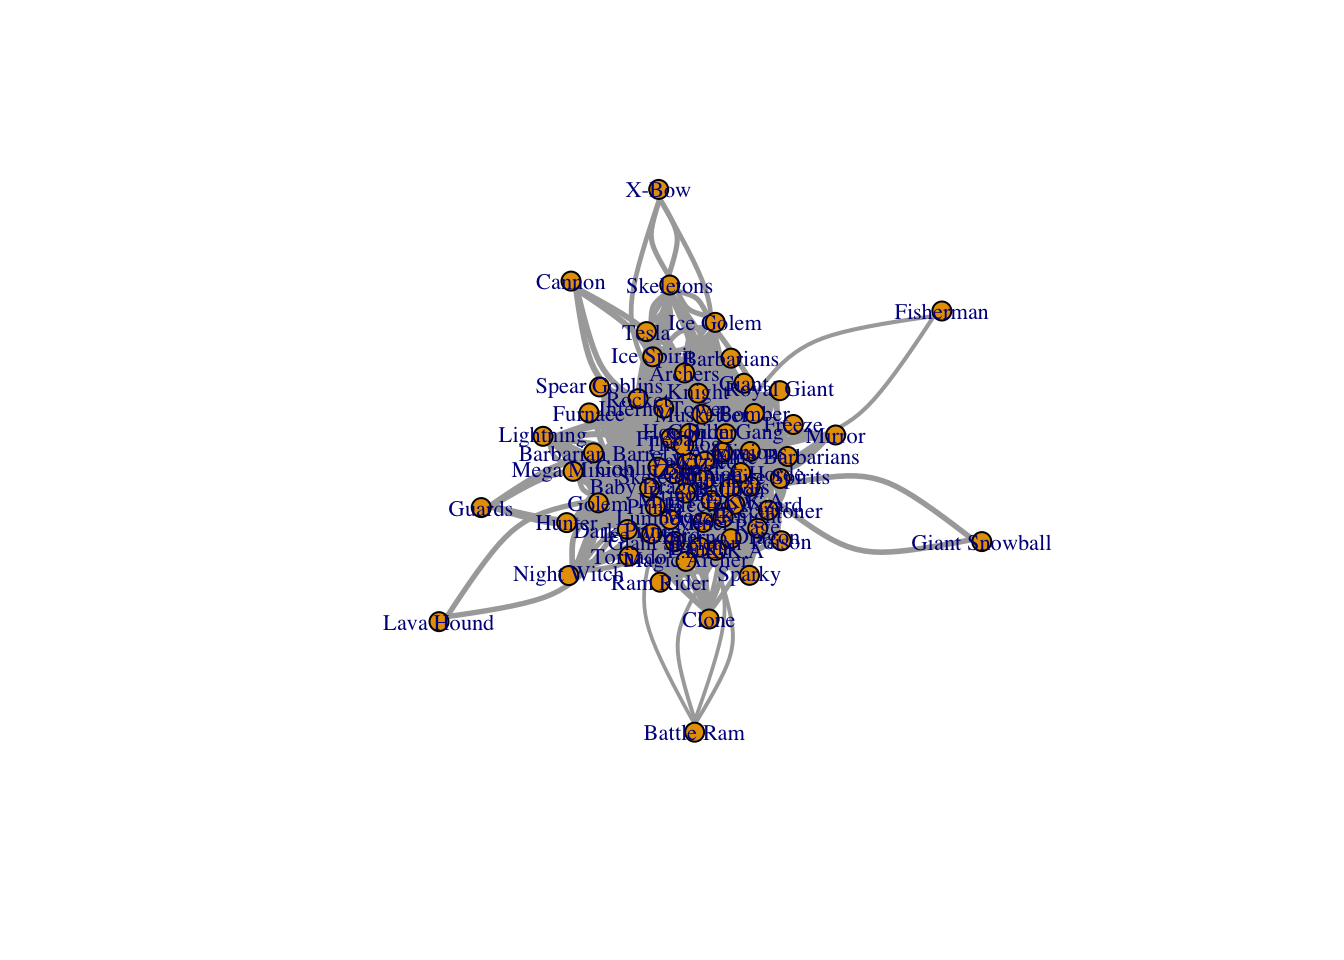
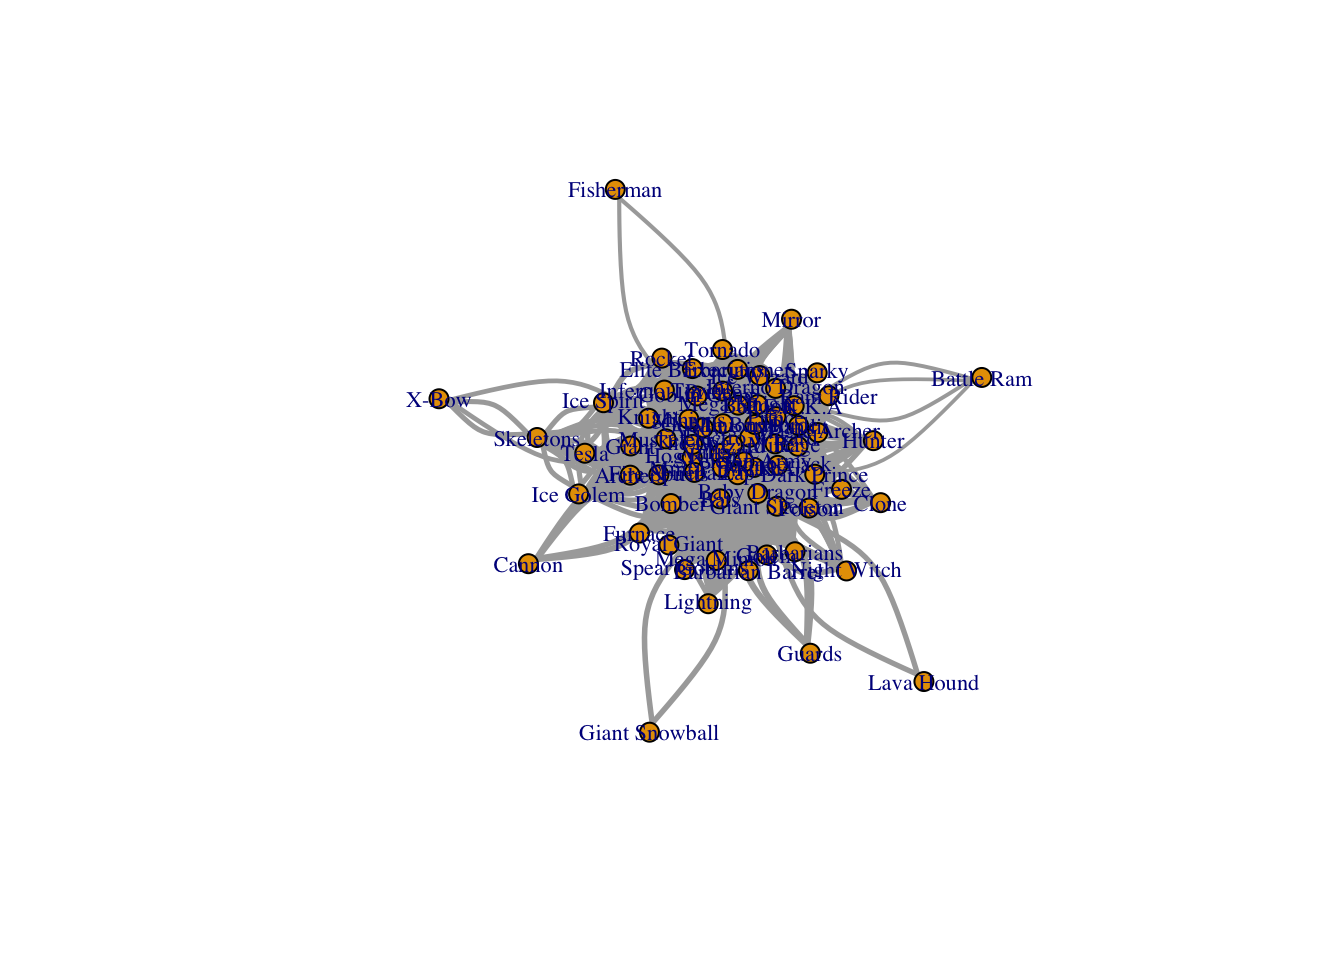
update

Changed region(s): [[0.2812, 0.1875, 0.7812, 0.7812]]

diff --git a/kevineuyoque/clash_royale/ClashRoyaleDraft.html b/kevineuyoque/clash_royale/ClashRoyaleDraft.html
@@ -183,13 +183,10 @@ Activity Length
 </div>
 <div id="callout-2" class="callout-2-contents callout-collapse collapse">
 <div class="callout-body-container callout-body">
-<p>This module could be used as a short in-class lab, a longer out-of-class assignment, or part of a larger unit on network analysis and data visualization.</p>
+<p>This module could be used as a short in-class lab that lasts about 60 minutes or part of a larger unit on network analysis and data visualization.</p>
 </div>
 </div>
 </div>
-</section>
-<section id="a-class-period" class="level1">
-<h1>a class period</h1>
 <div class="callout callout-style-simple callout-note no-icon callout-titled" title="Methods">
 <div class="callout-header d-flex align-content-center" data-bs-toggle="collapse" data-bs-target=".callout-3-contents" aria-controls="callout-3" aria-expanded="false" aria-label="Toggle callout">
 <div class="callout-icon-container">
@@ -216,8 +213,6 @@ Methods
 </div>
 </div>
 </section>
-<section id="add-a-hyperlink-that-sends-the-reader-to-the-page-for-each-package" class="level1">
-<h1>add a hyperlink that sends the reader to the page for each package</h1>
 <section id="data" class="level2">
 <h2 class="anchored" data-anchor-id="data">Data</h2>
 <p>The main dataset used in this module is cr_season3_5000decks.csv, which contains deck-level Clash Royale data from Season 3. Each row corresponds to a card appearing in a specific deck, along with whether that deck won.</p>
@@ -265,9 +260,6 @@ Methods
 </ul>
 </details>
 </section>
-</section>
-<section id="insert-into-module-instead" class="level1">
-<h1>insert into module instead</h1>
 <section id="goal-of-this-module" class="level2">
 <h2 class="anchored" data-anchor-id="goal-of-this-module">Goal of this module</h2>
 <p>In this tutorial, we will treat Clash Royale cards as nodes in a network.</p>
@@ -379,7 +371,6 @@ lgl (2): evolution, hero_upgrade
 </div>
 </div>
 </section>
-</section>
 <section id="network-representation" class="level1">
 <h1>Network Representation</h1>
 <p>To represent Clash Royale synergy as a network, we will model the data as a graph.</p>
@@ -391,9 +382,9 @@ lgl (2): evolution, hero_upgrade
 <span id="cb14-5"><a href="#cb14-5" aria-hidden="true" tabindex="-1"></a></span>
 <span id="cb14-6"><a href="#cb14-6" aria-hidden="true" tabindex="-1"></a>network</span></code><button title="Copy to Clipboard" class="code-copy-button"><i class="bi"></i></button></pre></div>
 <div class="cell-output cell-output-stdout">
-<pre><code>IGRAPH 9583a89 UN-- 69 1572 -- 
+<pre><code>IGRAPH a367b1d UN-- 69 1572 -- 
 + attr: name (v/c), decks (e/n), wins (e/n), winrate (e/n)
-+ edges from 9583a89 (vertex names):
++ edges from a367b1d (vertex names):
  [1] Hog Rider     --Zap Valkyrie      --Zap Giant Skeleton--Zap
  [4] Baby Dragon   --Zap Mini P.E.K.K.A--Zap Witch         --Zap
  [7] Musketeer     --Zap Balloon       --Zap Arrows        --Zap
@@ -452,6 +443,27 @@ lgl (2): evolution, hero_upgrade
 </ul>
 <p>There are over 37,235,730,424,788 possible unique deck combinations</p>
 <p>(Pick 16 cards from the dataset for which we will use, go back to adjacency matrix, only 16 nodes and only have edges for nodes with higher than 50% win rate)</p>
+</section>
+<section id="centrality-of-cards" class="level2">
+<h2 class="anchored" data-anchor-id="centrality-of-cards">Centrality of Cards</h2>
+<p>Up to this point, we have visualized relationships between cards. However, we can go further by measuring how <em>important</em> each card is within the network.</p>
+<p>This is done using <strong>centrality</strong>, which measures how connected or influential a node is in a network.</p>
+<section id="degree-centrality" class="level3">
+<h3 class="anchored" data-anchor-id="degree-centrality">Degree Centrality</h3>
+<p>The simplest measure is <strong>degree centrality</strong>, which counts how many connections each card has.</p>
+<ul>
+<li>High degree → card appears with many other cards<br>
+</li>
+<li>Low degree → card appears with fewer pairings</li>
+</ul>
+<p>Cards with high degree centrality are often:</p>
+<ul>
+<li>flexible across many strategies<br>
+</li>
+<li>commonly used in decks<br>
+</li>
+<li>important to the overall meta</li>
+</ul>
 <div class="cell">
 <div class="sourceCode cell-code" id="cb16"><pre class="sourceCode r code-with-copy"><code class="sourceCode r"><span id="cb16-1"><a href="#cb16-1" aria-hidden="true" tabindex="-1"></a>used_cards <span class="ot">&lt;-</span> <span class="fu">c</span>(<span class="st">"Hog Rider"</span>, <span class="st">"Zap"</span>, <span class="st">"Valkyrie"</span>, <span class="st">"Giant Skeleton"</span>, <span class="st">"Baby Dragon"</span>,</span>
 <span id="cb16-2"><a href="#cb16-2" aria-hidden="true" tabindex="-1"></a>                <span class="st">"Mini P.E.K.K.A"</span>, <span class="st">"Witch"</span>, <span class="st">"Musketeer"</span>, <span class="st">"Balloon"</span>, <span class="st">"Arrows"</span>, <span class="st">"Skeleton Army"</span>, <span class="st">"Electro Wizard"</span>, <span class="st">"Mega Knight"</span>, <span class="st">"Fireball"</span>, <span class="st">"Executioner"</span>, <span class="st">"P.E.K.K.A"</span>)</span></code><button title="Copy to Clipboard" class="code-copy-button"><i class="bi"></i></button></pre></div>
@@ -459,18 +471,20 @@ lgl (2): evolution, hero_upgrade
 <div class="cell">
 <div class="sourceCode cell-code" id="cb17"><pre class="sourceCode r code-with-copy"><code class="sourceCode r"><span id="cb17-1"><a href="#cb17-1" aria-hidden="true" tabindex="-1"></a>pair_data_16 <span class="ot">&lt;-</span> pair_data <span class="sc">|&gt;</span></span>
 <span id="cb17-2"><a href="#cb17-2" aria-hidden="true" tabindex="-1"></a>  <span class="fu">filter</span>(card1 <span class="sc">%in%</span> used_cards, card2 <span class="sc">%in%</span> used_cards) <span class="sc">|&gt;</span></span>
-<span id="cb17-3"><a href="#cb17-3" aria-hidden="true" tabindex="-1"></a>  <span class="fu">mutate</span>(<span class="at">synergy =</span> <span class="fu">ifelse</span>(winrate <span class="sc">&gt;</span> <span class="fl">0.50</span>, <span class="dv">1</span>, <span class="dv">0</span>)) <span class="sc">|&gt;</span></span>
-<span id="cb17-4"><a href="#cb17-4" aria-hidden="true" tabindex="-1"></a>  <span class="fu">select</span>(card1, card2, synergy)</span>
-<span id="cb17-5"><a href="#cb17-5" aria-hidden="true" tabindex="-1"></a></span>
-<span id="cb17-6"><a href="#cb17-6" aria-hidden="true" tabindex="-1"></a></span>
+<span id="cb17-3"><a href="#cb17-3" aria-hidden="true" tabindex="-1"></a>  <span class="fu">mutate</span>(<span class="at">synergy =</span> <span class="fu">ifelse</span>(winrate <span class="sc">&gt;</span> <span class="fl">0.57</span>, <span class="dv">1</span>, <span class="dv">0</span>)) <span class="sc">|&gt;</span></span>
+<span id="cb17-4"><a href="#cb17-4" aria-hidden="true" tabindex="-1"></a>  <span class="co">#filter(synergy == 1) |&gt;</span></span>
+<span id="cb17-5"><a href="#cb17-5" aria-hidden="true" tabindex="-1"></a>  <span class="fu">select</span>(card1, card2, synergy) </span>
+<span id="cb17-6"><a href="#cb17-6" aria-hidden="true" tabindex="-1"></a>  </span>
 <span id="cb17-7"><a href="#cb17-7" aria-hidden="true" tabindex="-1"></a></span>
-<span id="cb17-8"><a href="#cb17-8" aria-hidden="true" tabindex="-1"></a>network_16 <span class="ot">&lt;-</span> <span class="fu">graph_from_data_frame</span>(pair_data_16, <span class="at">directed =</span> <span class="cn">FALSE</span>)</span>
+<span id="cb17-8"><a href="#cb17-8" aria-hidden="true" tabindex="-1"></a></span>
 <span id="cb17-9"><a href="#cb17-9" aria-hidden="true" tabindex="-1"></a></span>
-<span id="cb17-10"><a href="#cb17-10" aria-hidden="true" tabindex="-1"></a><span class="fu">plot</span>(network_16,</span>
-<span id="cb17-11"><a href="#cb17-11" aria-hidden="true" tabindex="-1"></a>     <span class="at">layout =</span> layout_with_fr,</span>
-<span id="cb17-12"><a href="#cb17-12" aria-hidden="true" tabindex="-1"></a>     <span class="at">vertex.size =</span> <span class="dv">8</span>,</span>
-<span id="cb17-13"><a href="#cb17-13" aria-hidden="true" tabindex="-1"></a>     <span class="at">vertex.label.cex =</span> .<span class="dv">8</span>,</span>
-<span id="cb17-14"><a href="#cb17-14" aria-hidden="true" tabindex="-1"></a>     <span class="at">edge.width =</span> <span class="fu">E</span>(network_16)<span class="sc">$</span>synergy <span class="sc">*</span> <span class="dv">4</span>)</span></code><button title="Copy to Clipboard" class="code-copy-button"><i class="bi"></i></button></pre></div>
+<span id="cb17-10"><a href="#cb17-10" aria-hidden="true" tabindex="-1"></a>network_16 <span class="ot">&lt;-</span> <span class="fu">graph_from_data_frame</span>(pair_data_16, <span class="at">directed =</span> <span class="cn">FALSE</span>)</span>
+<span id="cb17-11"><a href="#cb17-11" aria-hidden="true" tabindex="-1"></a></span>
+<span id="cb17-12"><a href="#cb17-12" aria-hidden="true" tabindex="-1"></a><span class="fu">plot</span>(network_16,</span>
+<span id="cb17-13"><a href="#cb17-13" aria-hidden="true" tabindex="-1"></a>     <span class="at">layout =</span> layout_with_fr,</span>
+<span id="cb17-14"><a href="#cb17-14" aria-hidden="true" tabindex="-1"></a>     <span class="at">vertex.size =</span> <span class="dv">8</span>,</span>
+<span id="cb17-15"><a href="#cb17-15" aria-hidden="true" tabindex="-1"></a>     <span class="at">vertex.label.cex =</span> .<span class="dv">8</span>,</span>
+<span id="cb17-16"><a href="#cb17-16" aria-hidden="true" tabindex="-1"></a>     <span class="at">edge.width =</span> <span class="fu">E</span>(network_16)<span class="sc">$</span>synergy)</span></code><button title="Copy to Clipboard" class="code-copy-button"><i class="bi"></i></button></pre></div>
 <div class="cell-output-display">
 <div>
 <figure class="figure">
@@ -481,52 +495,37 @@ lgl (2): evolution, hero_upgrade
 </div>
 </section>
 </section>
-<section id="below-are-test-runs-using-other-methods" class="level1">
-<h1>below are test runs using other methods</h1>
+<section id="try-it-yourself" class="level2">
+<h2 class="anchored" data-anchor-id="try-it-yourself">Try it yourself</h2>
 <div class="cell">
-<div class="sourceCode cell-code" id="cb18"><pre class="sourceCode r code-with-copy"><code class="sourceCode r"><span id="cb18-1"><a href="#cb18-1" aria-hidden="true" tabindex="-1"></a><span class="co"># Add edge weights</span></span>
-<span id="cb18-2"><a href="#cb18-2" aria-hidden="true" tabindex="-1"></a><span class="fu">E</span>(network)<span class="sc">$</span>weight <span class="ot">&lt;-</span> pair_data<span class="sc">$</span>winrate</span>
-<span id="cb18-3"><a href="#cb18-3" aria-hidden="true" tabindex="-1"></a></span>
-<span id="cb18-4"><a href="#cb18-4" aria-hidden="true" tabindex="-1"></a><span class="co"># plot a network</span></span>
-<span id="cb18-5"><a href="#cb18-5" aria-hidden="true" tabindex="-1"></a><span class="fu">plot</span>(network,</span>
-<span id="cb18-6"><a href="#cb18-6" aria-hidden="true" tabindex="-1"></a>     <span class="at">layout =</span> layout_with_fr,</span>
-<span id="cb18-7"><a href="#cb18-7" aria-hidden="true" tabindex="-1"></a>     <span class="at">vertex.size =</span> <span class="dv">7</span>,</span>
-<span id="cb18-8"><a href="#cb18-8" aria-hidden="true" tabindex="-1"></a>     <span class="at">vertex.label.cex =</span> .<span class="dv">7</span>,</span>
-<span id="cb18-9"><a href="#cb18-9" aria-hidden="true" tabindex="-1"></a>     <span class="at">edge.width =</span> <span class="fu">E</span>(network)<span class="sc">$</span>weight <span class="sc">*</span> <span class="dv">5</span>)</span></code><button title="Copy to Clipboard" class="code-copy-button"><i class="bi"></i></button></pre></div>
-<div class="cell-output-display">
-<div>
-<figure class="figure">
-<p><img src="ClashRoyaleDraft_files/figure-html/unnamed-chunk-10-1.png" class="img-fluid figure-img" width="672"></p>
-</figure>
-</div>
-</div>
-</div>
-<div class="cell">
-<div class="sourceCode cell-code" id="cb19"><pre class="sourceCode r code-with-copy"><code class="sourceCode r"><span id="cb19-1"><a href="#cb19-1" aria-hidden="true" tabindex="-1"></a><span class="co"># find most connected cards</span></span>
-<span id="cb19-2"><a href="#cb19-2" aria-hidden="true" tabindex="-1"></a>card_degree <span class="ot">&lt;-</span> <span class="fu">degree</span>(network)</span>
-<span id="cb19-3"><a href="#cb19-3" aria-hidden="true" tabindex="-1"></a><span class="fu">sort</span>(card_degree, <span class="at">decreasing =</span> <span class="cn">TRUE</span>)[<span class="dv">1</span><span class="sc">:</span><span class="dv">10</span>]</span></code><button title="Copy to Clipboard" class="code-copy-button"><i class="bi"></i></button></pre></div>
+<div class="sourceCode cell-code" id="cb18"><pre class="sourceCode r code-with-copy"><code class="sourceCode r"><span id="cb18-1"><a href="#cb18-1" aria-hidden="true" tabindex="-1"></a>all_cards <span class="ot">&lt;-</span> <span class="fu">unique</span>(cr_season3_5000decks<span class="sc">$</span>card)</span>
+<span id="cb18-2"><a href="#cb18-2" aria-hidden="true" tabindex="-1"></a></span>
+<span id="cb18-3"><a href="#cb18-3" aria-hidden="true" tabindex="-1"></a>random_16 <span class="ot">&lt;-</span> <span class="fu">sample</span>(all_cards, <span class="dv">16</span>)</span>
+<span id="cb18-4"><a href="#cb18-4" aria-hidden="true" tabindex="-1"></a></span>
+<span id="cb18-5"><a href="#cb18-5" aria-hidden="true" tabindex="-1"></a>random_16</span></code><button title="Copy to Clipboard" class="code-copy-button"><i class="bi"></i></button></pre></div>
 <div class="cell-output cell-output-stdout">
-<pre><code>           Zap         Wizard  Skeleton Army    Baby Dragon       Valkyrie 
-           118            116            114            108            106 
-       The Log       Fireball          Witch      Hog Rider Electro Wizard 
-           106            104            102             98             78 </code></pre>
+<pre><code> [1] "Three Musketeers" "Lightning"        "Royal Giant"      "Dart Goblin"     
+ [5] "Bomb Tower"       "The Log"          "Hunter"           "Skeleton Barrel" 
+ [9] "Clone"            "Royal Recruits"   "Ice Spirit"       "Tombstone"       
+[13] "Freeze"           "Mega Knight"      "Giant"            "Ice Golem"       </code></pre>
 </div>
-<div class="sourceCode cell-code" id="cb21"><pre class="sourceCode r code-with-copy"><code class="sourceCode r"><span id="cb21-1"><a href="#cb21-1" aria-hidden="true" tabindex="-1"></a><span class="co"># Filtered more decks since network too dense</span></span>
-<span id="cb21-2"><a href="#cb21-2" aria-hidden="true" tabindex="-1"></a><span class="co"># show only strongest edges</span></span>
-<span id="cb21-3"><a href="#cb21-3" aria-hidden="true" tabindex="-1"></a>pair_data_small <span class="ot">&lt;-</span> pair_data <span class="sc">|&gt;</span></span>
-<span id="cb21-4"><a href="#cb21-4" aria-hidden="true" tabindex="-1"></a>  <span class="fu">filter</span>(decks <span class="sc">&gt;</span> <span class="dv">290</span>, winrate <span class="sc">&gt;</span> <span class="fl">0.50</span>)</span>
-<span id="cb21-5"><a href="#cb21-5" aria-hidden="true" tabindex="-1"></a></span>
-<span id="cb21-6"><a href="#cb21-6" aria-hidden="true" tabindex="-1"></a>network_small <span class="ot">&lt;-</span> <span class="fu">graph_from_data_frame</span>(pair_data_small, <span class="at">directed =</span> <span class="cn">FALSE</span>)</span>
-<span id="cb21-7"><a href="#cb21-7" aria-hidden="true" tabindex="-1"></a></span>
-<span id="cb21-8"><a href="#cb21-8" aria-hidden="true" tabindex="-1"></a><span class="co"># gives layout more time to spread out</span></span>
-<span id="cb21-9"><a href="#cb21-9" aria-hidden="true" tabindex="-1"></a>lay <span class="ot">&lt;-</span> <span class="fu">layout_with_fr</span>(network_small, <span class="at">niter =</span> <span class="dv">5000</span>)</span>
-<span id="cb21-10"><a href="#cb21-10" aria-hidden="true" tabindex="-1"></a></span>
-<span id="cb21-11"><a href="#cb21-11" aria-hidden="true" tabindex="-1"></a><span class="co"># plot</span></span>
-<span id="cb21-12"><a href="#cb21-12" aria-hidden="true" tabindex="-1"></a><span class="fu">plot</span>(network_small,</span>
-<span id="cb21-13"><a href="#cb21-13" aria-hidden="true" tabindex="-1"></a>     <span class="at">layout =</span> lay,</span>
-<span id="cb21-14"><a href="#cb21-14" aria-hidden="true" tabindex="-1"></a>     <span class="at">vertex.size =</span> <span class="dv">8</span>,</span>
-<span id="cb21-15"><a href="#cb21-15" aria-hidden="true" tabindex="-1"></a>     <span class="at">vertex.label.cex =</span> <span class="fl">0.75</span>,</span>
-<span id="cb21-16"><a href="#cb21-16" aria-hidden="true" tabindex="-1"></a>     <span class="at">edge.width =</span> <span class="fu">E</span>(network_small)<span class="sc">$</span>winrate <span class="sc">*</span> <span class="dv">4</span>)</span></code><button title="Copy to Clipboard" class="code-copy-button"><i class="bi"></i></button></pre></div>
+</div>
+<div class="cell">
+<div class="sourceCode cell-code" id="cb20"><pre class="sourceCode r code-with-copy"><code class="sourceCode r"><span id="cb20-1"><a href="#cb20-1" aria-hidden="true" tabindex="-1"></a>pair_data_random <span class="ot">&lt;-</span> pair_data <span class="sc">|&gt;</span></span>
+<span id="cb20-2"><a href="#cb20-2" aria-hidden="true" tabindex="-1"></a>  <span class="fu">filter</span>(card1 <span class="sc">%in%</span> random_16, card2 <span class="sc">%in%</span> random_16)</span>
+<span id="cb20-3"><a href="#cb20-3" aria-hidden="true" tabindex="-1"></a></span>
+<span id="cb20-4"><a href="#cb20-4" aria-hidden="true" tabindex="-1"></a><span class="cf">if</span> (<span class="fu">nrow</span>(pair_data_random) <span class="sc">==</span> <span class="dv">0</span>) {</span>
+<span id="cb20-5"><a href="#cb20-5" aria-hidden="true" tabindex="-1"></a>  <span class="fu">print</span>(<span class="st">"No card pairs were found for this random set."</span>)</span>
+<span id="cb20-6"><a href="#cb20-6" aria-hidden="true" tabindex="-1"></a>} <span class="cf">else</span> {</span>
+<span id="cb20-7"><a href="#cb20-7" aria-hidden="true" tabindex="-1"></a>  </span>
+<span id="cb20-8"><a href="#cb20-8" aria-hidden="true" tabindex="-1"></a>  network_random <span class="ot">&lt;-</span> <span class="fu">graph_from_data_frame</span>(pair_data_random, <span class="at">directed =</span> <span class="cn">FALSE</span>)</span>
+<span id="cb20-9"><a href="#cb20-9" aria-hidden="true" tabindex="-1"></a>  </span>
+<span id="cb20-10"><a href="#cb20-10" aria-hidden="true" tabindex="-1"></a>  <span class="fu">plot</span>(network_random,</span>
+<span id="cb20-11"><a href="#cb20-11" aria-hidden="true" tabindex="-1"></a>       <span class="at">layout =</span> <span class="fu">layout_with_fr</span>(network_random),</span>
+<span id="cb20-12"><a href="#cb20-12" aria-hidden="true" tabindex="-1"></a>       <span class="at">vertex.size =</span> <span class="dv">8</span>,</span>
+<span id="cb20-13"><a href="#cb20-13" aria-hidden="true" tabindex="-1"></a>       <span class="at">vertex.label.cex =</span> <span class="fl">0.8</span>,</span>
+<span id="cb20-14"><a href="#cb20-14" aria-hidden="true" tabindex="-1"></a>       <span class="at">edge.width =</span> <span class="fu">E</span>(network_random)<span class="sc">$</span>winrate <span class="sc">*</span> <span class="dv">8</span>)</span>
+<span id="cb20-15"><a href="#cb20-15" aria-hidden="true" tabindex="-1"></a>}</span></code><button title="Copy to Clipboard" class="code-copy-button"><i class="bi"></i></button></pre></div>
 <div class="cell-output-display">
 <div>
 <figure class="figure">
@@ -535,10 +534,23 @@ lgl (2): evolution, hero_upgrade
 </div>
 </div>
 </div>
-<p>Here we can see a 16 node network</p>
+</section>
+<section id="conclusion" class="level2">
+<h2 class="anchored" data-anchor-id="conclusion">Conclusion</h2>
+<p>In this module, we explored how network analysis can be used to understand relationships between cards in Clash Royale.</p>
+<p>Starting from raw deck data, we transformed the dataset into pairwise matrices that captured how often cards appear together and how successful those pairings are. By converting this information into a network, we were able to visualize and analyze card synergy in a more meaningful way.</p>
+<p>Through this process, we observed that:</p>
 <ul>
-<li>16 cards are used</li>
+<li>some cards are highly connected and appear across many strategies<br>
+</li>
+<li>certain card pairings consistently perform well together<br>
+</li>
+<li>groups of cards form clusters that reflect common deck archetypes</li>
 </ul>
+<p>We also extended this analysis by generating random sets of cards and comparing how their network structure changes, reinforcing how different combinations influence overall performance.</p>
+<p>Finally, by introducing centrality, we identified which cards play a more influential role within the network, helping us better understand the structure of the game’s meta.</p>
+<p>Overall, this module demonstrates how network analysis can reveal patterns and relationships in complex systems where interactions between elements are more important than the elements themselves.</p>
+</section>
 </section>
 
 </main>
